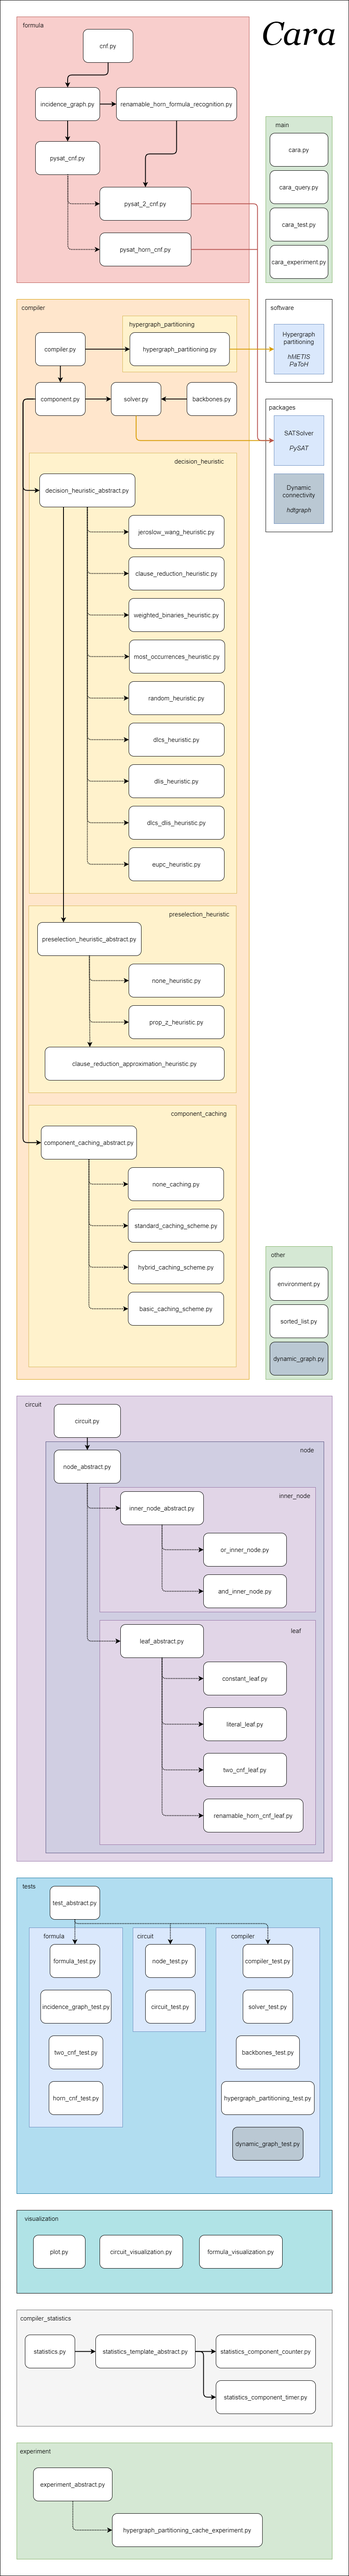
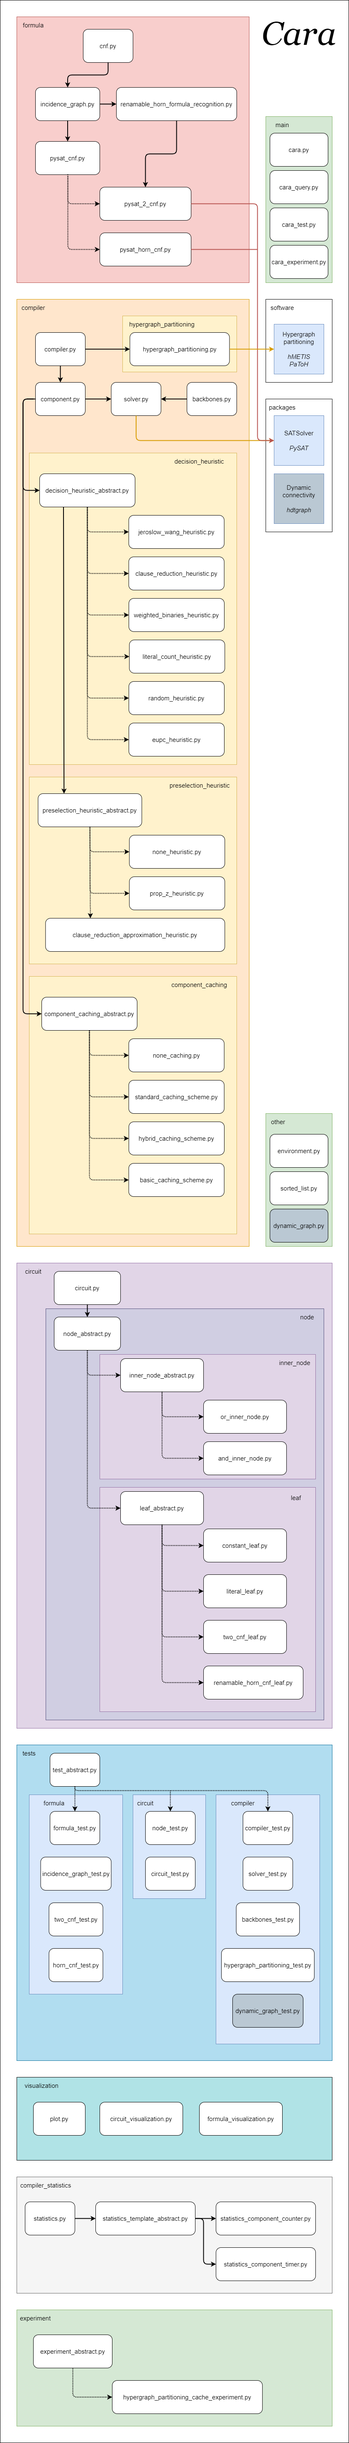
Literal count heuristics

Changed region(s): [[0.0309, 0.0, 0.9584, 0.9957], [0.7729, 0.0, 0.9584, 0.2178]]

diff --git a/compiler/decision_heuristic/literal_count_heuristic.py b/compiler/decision_heuristic/literal_count_heuristic.py
@@ -1,9 +1,12 @@
 # Import
-from typing import List, Set
 from compiler.solver import Solver
+from typing import List, Set, Dict, Union, Tuple
 from formula.incidence_graph import IncidenceGraph
 from compiler.decision_heuristic.decision_heuristic_abstract import DecisionHeuristicAbstract
 from compiler.preselection_heuristic.preselection_heuristic_abstract import PreselectionHeuristicAbstract
+
+# Import exception
+import exception.cara_exception as c_exception
 
 # Import enum
 import compiler.enum.heuristic.literal_count_heuristic_function_enum as lchf_enum
@@ -14,12 +17,72 @@ class LiteralCountHeuristic(DecisionHeuristicAbstract):
     Literal count - decision heuristic
     """
 
-    def __init__(self, preselection_heuristic: PreselectionHeuristicAbstract):
+    """
+    Private function
+    Private tie_breaker_function
+    """
+
+    def __init__(self, preselection_heuristic: PreselectionHeuristicAbstract,
+                 function_enum: lchf_enum.LiteralCountHeuristicFunctionEnum,
+                 tie_breaker_function_enum: Union[lchf_enum.LiteralCountHeuristicFunctionEnum, None] = None):
         super().__init__(preselection_heuristic)
+
+        # (tie-breaker) function
+        self.__function = self.__get_function(function_enum)
+        if tie_breaker_function_enum is None:
+            self.__tie_breaker_function = self.__function
+        else:
+            self.__tie_breaker_function = self.__get_function(tie_breaker_function_enum)
+
+    # region Static method
+    @staticmethod
+    def __avg(v):
+        return sum(v) / len(v)
+    # endregion
+
+    # region Private method
+    def __get_function(self, function_enum: lchf_enum.LiteralCountHeuristicFunctionEnum):
+        # SUM
+        if function_enum == lchf_enum.LiteralCountHeuristicFunctionEnum.SUM:
+            return sum
+
+        # MAX
+        if function_enum == lchf_enum.LiteralCountHeuristicFunctionEnum.MAX:
+            return max
+
+        # MIN
+        if function_enum == lchf_enum.LiteralCountHeuristicFunctionEnum.MIN:
+            return min
+
+        # AVG
+        if function_enum == lchf_enum.LiteralCountHeuristicFunctionEnum.AVG:
+            return self.__avg
+
+        # Not supported
+        raise c_exception.FunctionNotImplementedException("get_function",
+                                                          f"this type of function ({function_enum.name}) is not implemented")
+    # endregion
 
     # region Override method
     def get_decision_variable(self, cut_set: Set[int], incidence_graph: IncidenceGraph, solver: Solver, assignment_list: List[int], depth: int) -> int:
         preselected_variable_set = self._get_preselected_variables(cut_set, incidence_graph, depth)
 
-        pass
+        if len(preselected_variable_set) == 1:
+            return list(preselected_variable_set)[0]
+
+        score_dictionary: Dict[int, Tuple[int, int]] = dict()   # key: variable, value: (score_1, score_2) of the variable
+
+        # Compute score
+        for variable in preselected_variable_set:
+            positive_score = incidence_graph.literal_number_of_occurrences(variable)
+            negative_score = incidence_graph.literal_number_of_occurrences(-variable)
+
+            score_1 = self.__function([positive_score, negative_score])
+            score_2 = self.__tie_breaker_function([positive_score, negative_score])
+            score_dictionary[variable] = score_1, score_2
+
+        # Pick the best one
+        decision_variable = max(score_dictionary, key=score_dictionary.get)
+
+        return decision_variable
     # endregion

diff --git a/compiler/decision_heuristic/jeroslow_wang_heuristic.py b/compiler/decision_heuristic/jeroslow_wang_heuristic.py
@@ -23,10 +23,11 @@ class JeroslowWangHeuristic(DecisionHeuristicAbstract):
     # region Override method
     def get_decision_variable(self, cut_set: Set[int], incidence_graph: IncidenceGraph, solver: Solver, assignment_list: List[int], depth: int) -> int:
         preselected_variable_set = self._get_preselected_variables(cut_set, incidence_graph, depth)
-        score_dictionary: Dict[int, int] = dict()       # key: variable, value: score of the variable
 
         if len(preselected_variable_set) == 1:
             return list(preselected_variable_set)[0]
+
+        score_dictionary: Dict[int, int] = dict()       # key: variable, value: score of the variable
 
         # Compute score
         for variable in preselected_variable_set:

diff --git a/compiler/enum/heuristic/literal_count_heuristic_function_enum.py b/compiler/enum/heuristic/literal_count_heuristic_function_enum.py
@@ -7,6 +7,7 @@ class LiteralCountHeuristicFunctionEnum(IntEnum):
     SUM = 1     # DLCS
     MAX = 2     # DLIS
     MIN = 3
+    AVG = 4
 
 
 literal_count_heuristic_function_enum_names = [lchf.name for lchf in LiteralCountHeuristicFunctionEnum]
